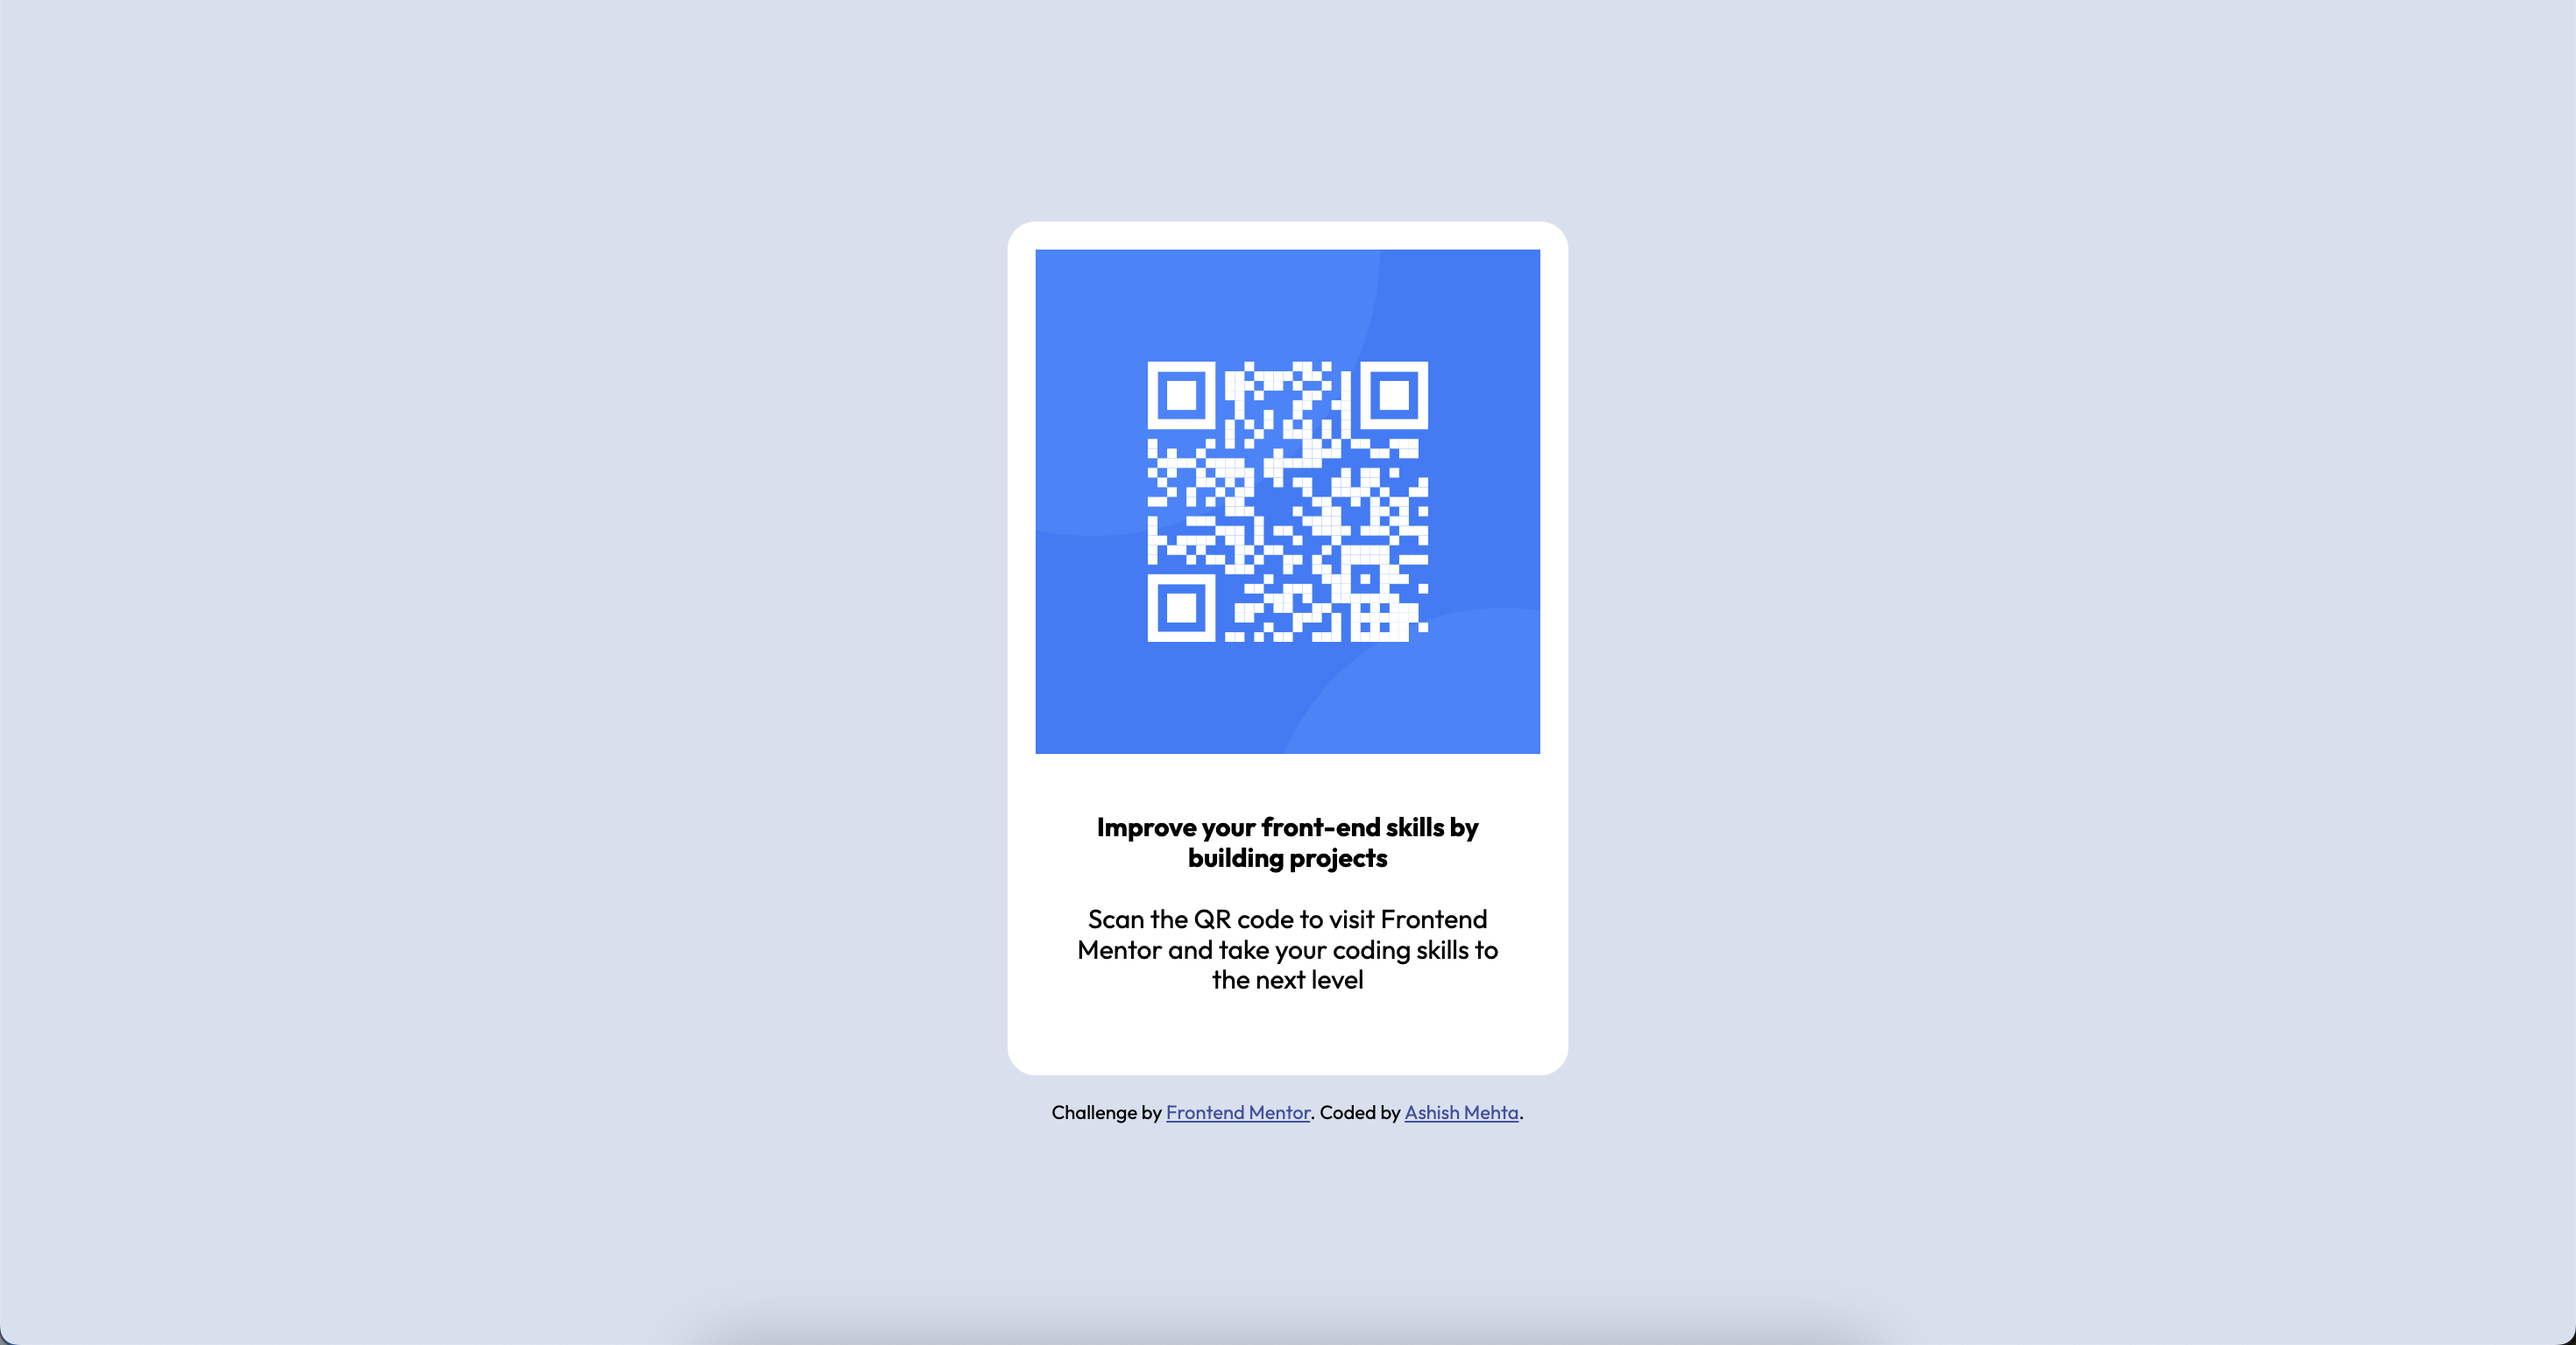
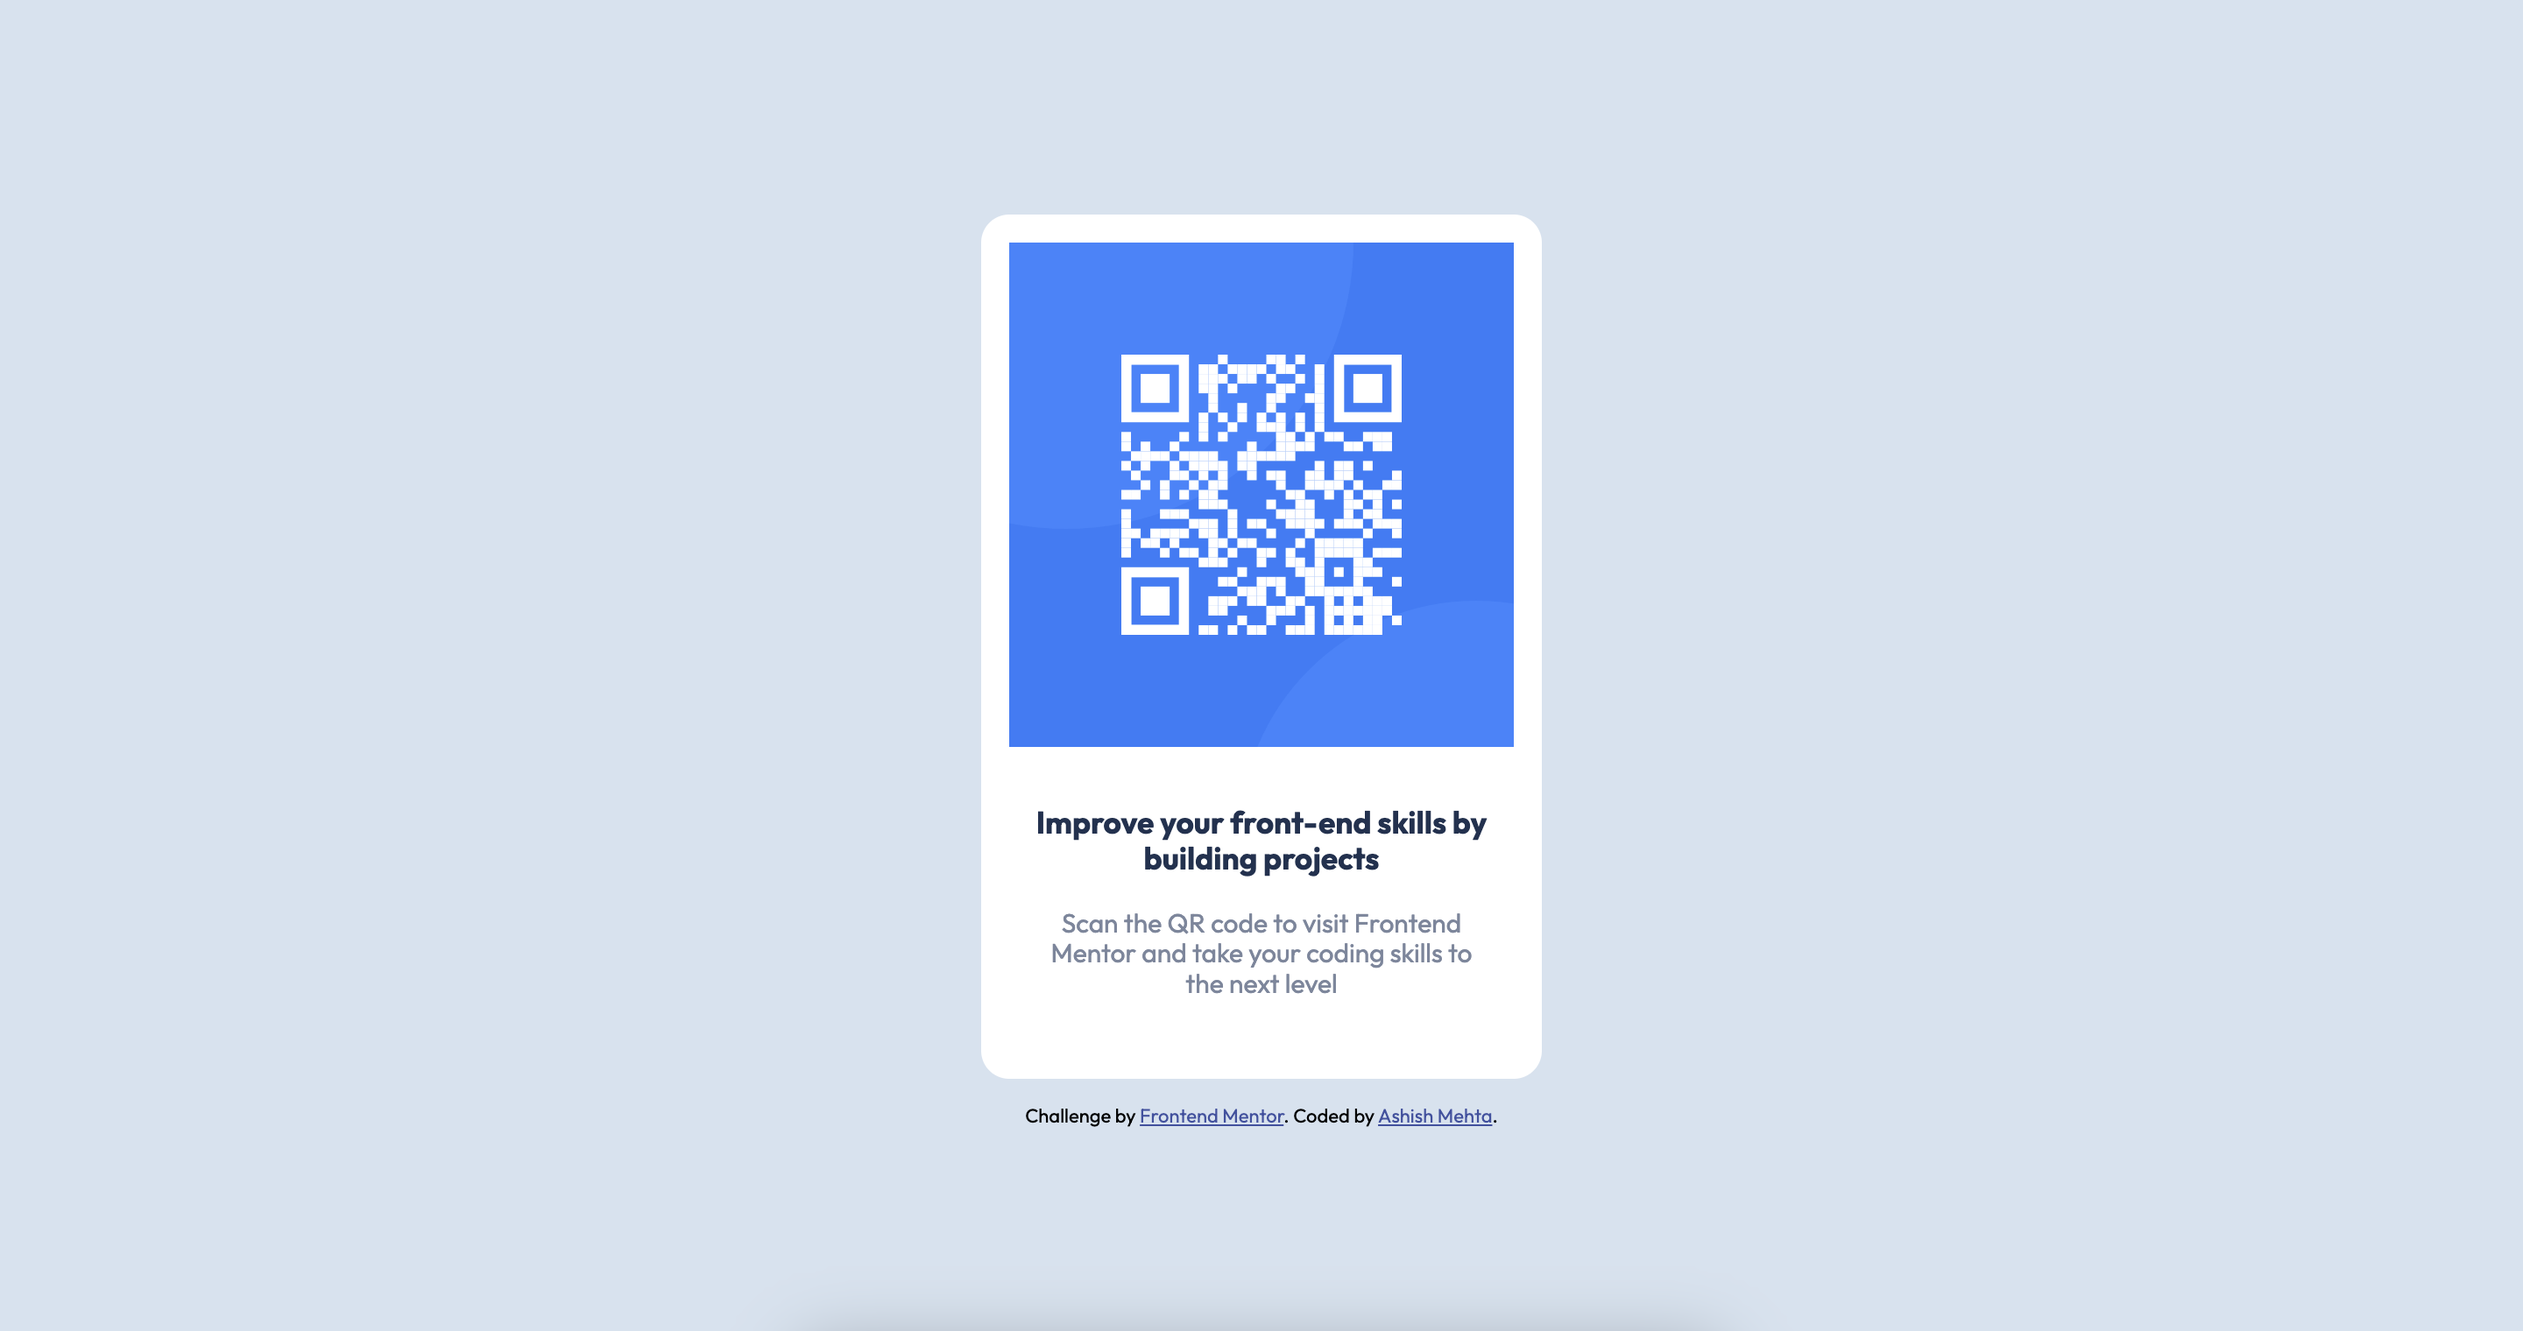
chore: refactor code

diff --git a/index.html b/index.html
@@ -17,19 +17,19 @@
 </head>
 
 <body>
-  <div class="wrapper">
-    <div class="card">
+  <main class="wrapper">
+    <section class="card" role="code">
       <img src="./images/image-qr-code.png" alt="QR code" class="img-responsive">
       <div class="content">
-        <p class="title">Improve your front-end skills by building projects</p>
+        <h1>Improve your front-end skills by building projects</h1>
         <p>Scan the QR code to visit Frontend Mentor and take your coding skills to the next level</p>
       </div>
-    </div>
+    </section>
     <div class="attribution">
       Challenge by <a href="https://www.frontendmentor.io?ref=challenge" target="_blank">Frontend Mentor</a>.
       Coded by <a href="https://github.com/erashishmehta">Ashish Mehta</a>.
     </div>
-  </div>
+  </main>
 </body>
 
 </html>

diff --git a/css/style.css b/css/style.css
@@ -7,10 +7,17 @@
   color: hsl(228, 45%, 44%);
 }
 
+:root {
+  --clr-lightgray: hsl(212, 45%, 89%);
+  --clr-grayblue: hsl(220, 15%, 55%);
+  --clr-darkblue: hsl(218, 44%, 22%);
+}
+
 html {
   box-sizing: border-box;
   text-size-adjust: 100%;
   scroll-behavior: smooth;
+  font-size: 15px;
 }
 
 html * {
@@ -18,8 +25,7 @@ html * {
 }
 
 body {
-  background-color: rgb(215, 224, 238);
-  /* background-color: rgb(31, 50, 81); */
+  background-color: var(--clr-lightgray);
   font-size: 15px;
   font-family: "Outfit", sans-serif;
   font-optical-sizing: auto;
@@ -58,9 +64,13 @@ body {
 
 .card .content p {
   margin: 0;
+  color: var(--clr-grayblue);
+  font-size: 1rem;
 }
 
-.card .content .title {
+.card .content h1 {
   font-weight: 700;
   margin-bottom: 18px;
+  color: var(--clr-darkblue);
+  font-size: 1.18rem;
 }
